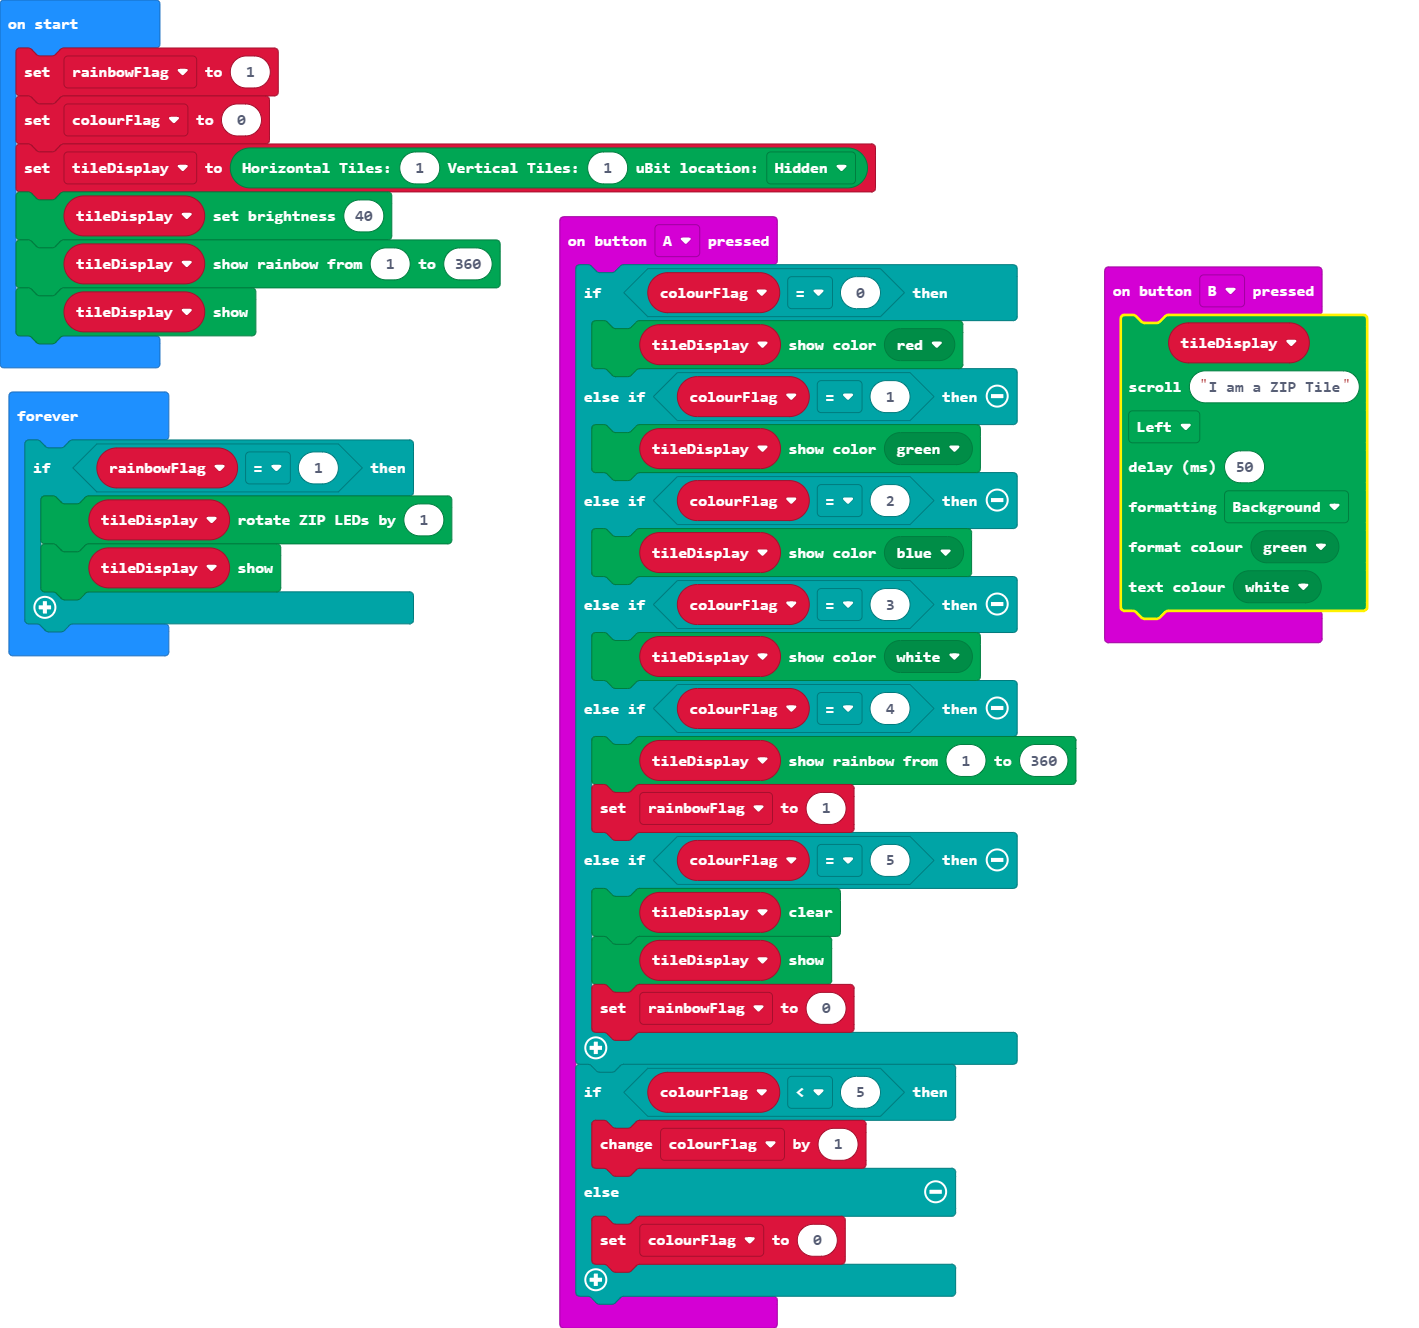
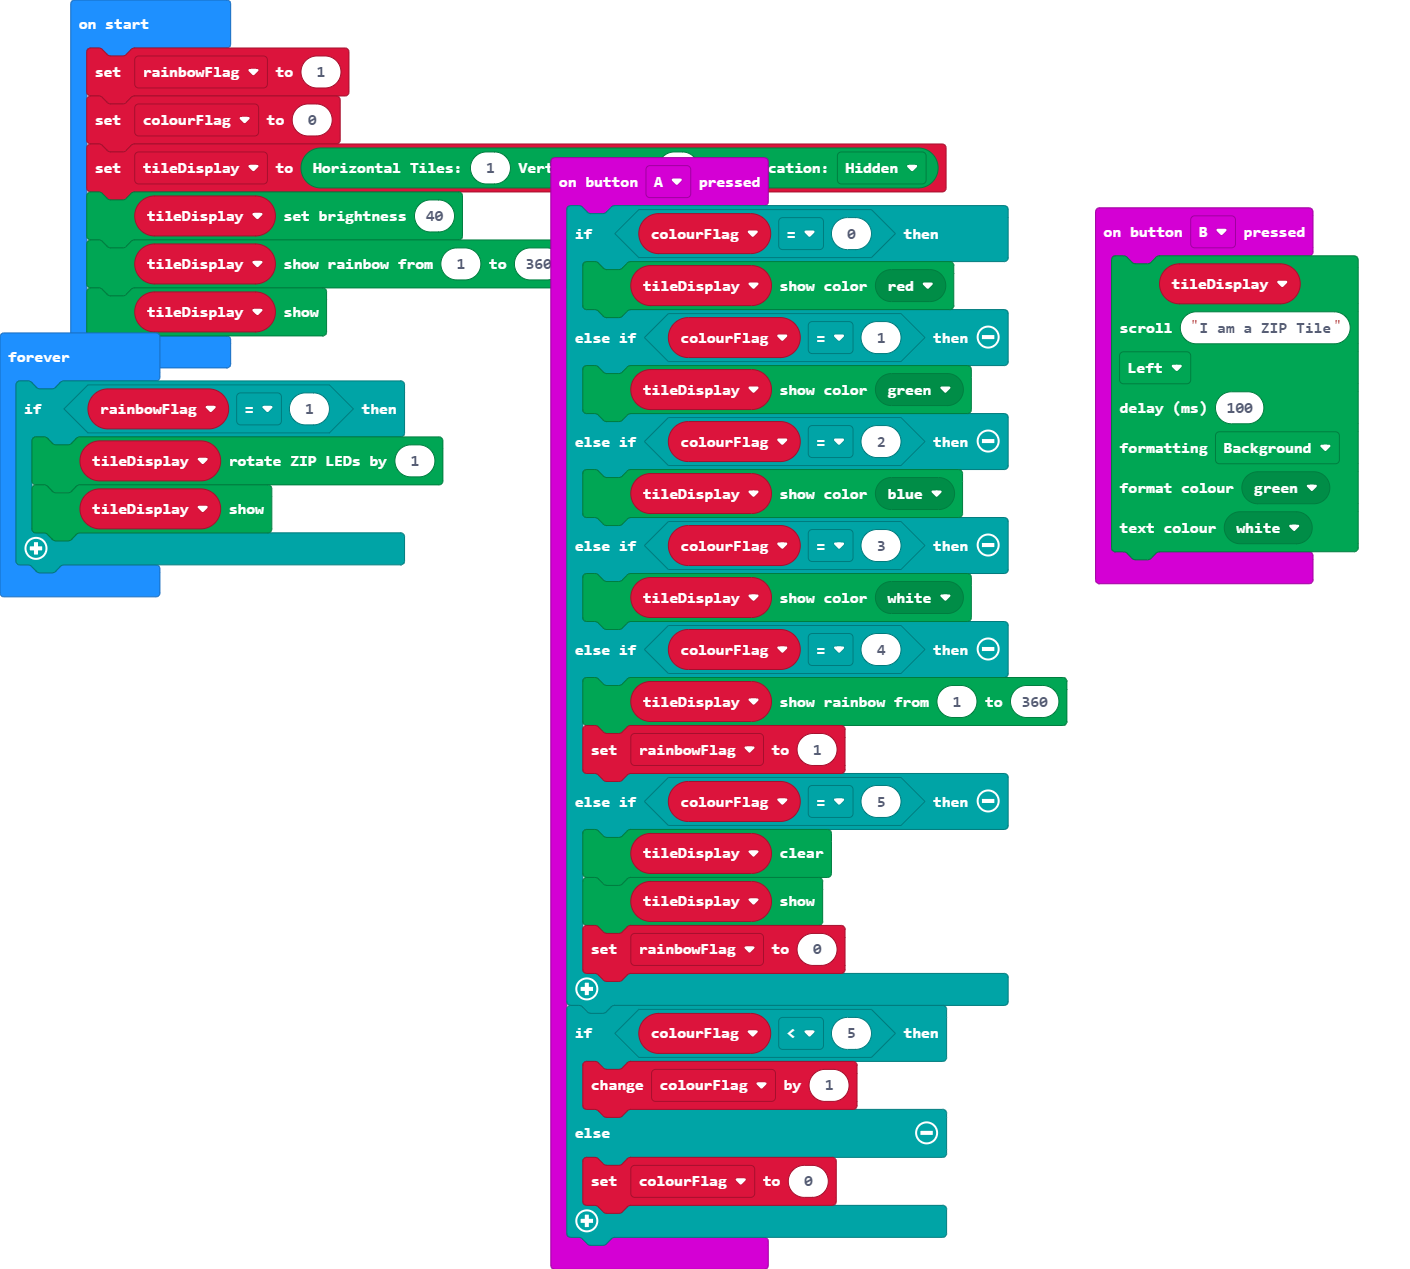
Update main.blocks, main.ts

Changed region(s): [[0.0, 0.0, 0.7801, 1.0], [0.7801, 0.1537, 0.9674, 0.4917], [0.6553, 0.9527, 0.6865, 0.9835]]

diff --git a/main.ts b/main.ts
@@ -25,7 +25,7 @@ input.onButtonPressed(Button.B, function () {
     tileDisplay.scrollText(
     "I am a ZIP Tile",
     Kitronik_Zip_Tile.TextDirection.Left,
-    50,
+    100,
     Kitronik_Zip_Tile.TextStyle.Background,
     Kitronik_Zip_Tile.colors(ZipLedColors.Green),
     Kitronik_Zip_Tile.colors(ZipLedColors.White)
